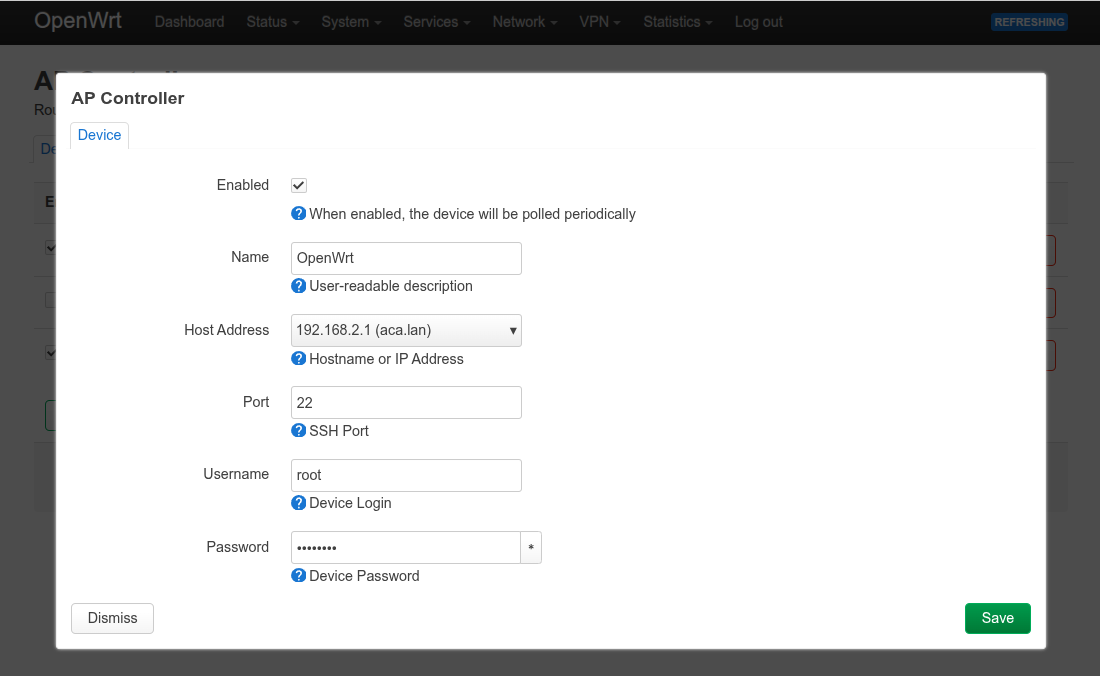
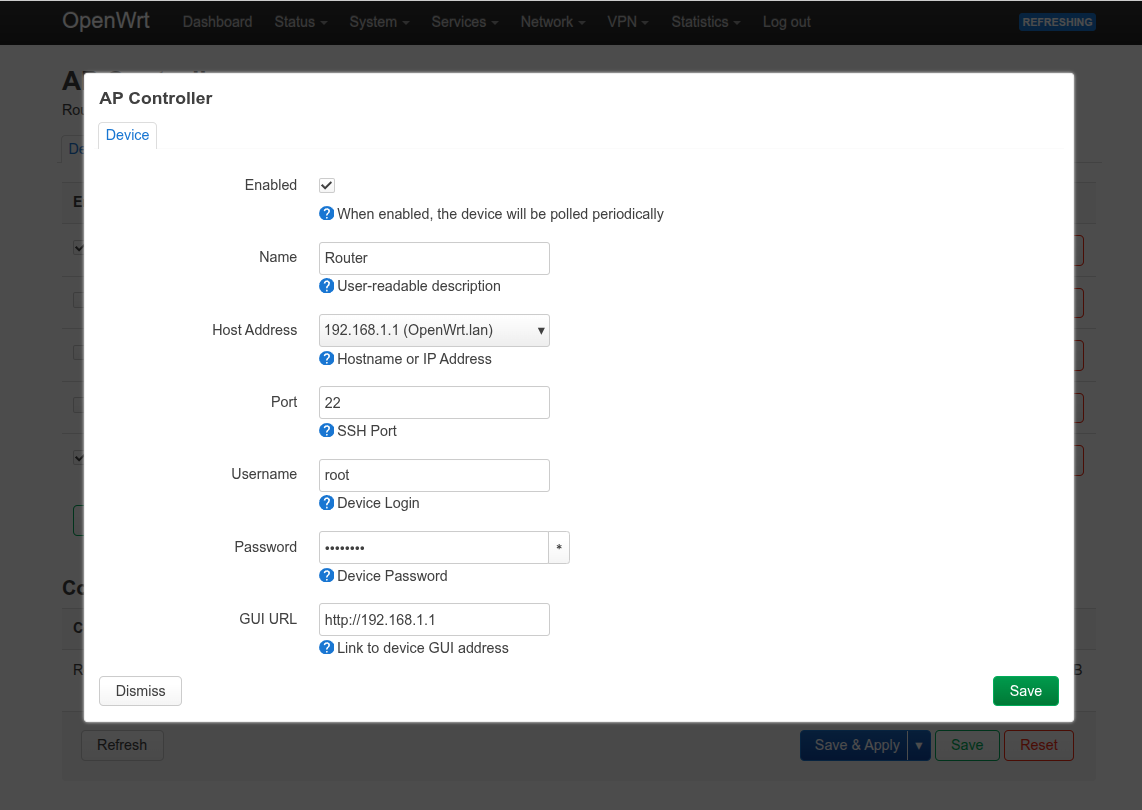
Design Improvements
- added a refresh button
- added a URL to the graphical interface
- made minor corrections

diff --git a/luci-app-apcontroller/htdocs/luci-static/resources/view/apcontroller/apcontroller.js b/luci-app-apcontroller/htdocs/luci-static/resources/view/apcontroller/apcontroller.js
@@ -159,29 +159,25 @@ return view.extend({
 				if (row['channels6g'])
 					row['channels6g'] = row['channels6g'].replaceAll(' ', ', ')
 
-				if (row['lastcontact']) {
-					row['.lastcontact'] = row['lastcontact'];
+				row['.lastcontact'] = row['lastcontact'];
+				if (row['.lastcontact'] > -1) {
+					const d = new Date(new Date().getTime() - row['.lastcontact'] * 1000);
 
-					if (row['.lastcontact'] > -1) {
-						const d = new Date(new Date().getTime() - row['.lastcontact'] * 1000);
+					row['lastcontact_ts'] = d.getTime() / 1000;
 
-						row['lastcontact_ts'] = d.getTime() / 1000;
+					let t = '' + d.getFullYear() + '-' + lz(d.getMonth() + 1) + '-' + lz(d.getDate()) + ' ' +
+						lz(d.getHours()) + ':' + lz(d.getMinutes()) + ':' + lz(d.getSeconds());
 
-						let t = '' + d.getFullYear() + '-' + lz(d.getMonth() + 1) + '-' + lz(d.getDate()) + ' ' +
-							lz(d.getHours()) + ':' + lz(d.getMinutes()) + ':' + lz(d.getSeconds());
+					if (row['.lastcontact'] > 86400)
+						t += ' (' + parseInt(row['.lastcontact']/86400) + _('days ago') + ')';
+					else if (row['.lastcontact'] > 3600)
+						t += ' (' + parseInt(row['.lastcontact']/3600) + _('h ago') + ')';
+					else if (row['.lastcontact'] > 60)
+						t += ' (' + parseInt(row['.lastcontact']/60) + _('m ago') + ')';
+					else
+						t += ' (' + row['.lastcontact'] + _('s ago') + ')';
 
-						if (row['.lastcontact'] > 86400)
-							t += ' (' + parseInt(row['.lastcontact']/86400) + _('days ago') + ')';
-						else if (row['.lastcontact'] > 3600)
-							t += ' (' + parseInt(row['.lastcontact']/3600) + _('h ago') + ')';
-						else if (row['.lastcontact'] > 60)
-							t += ' (' + parseInt(row['.lastcontact']/60) + _('m ago') + ')';
-						else
-							t += ' (' + row['.lastcontact'] + _('s ago') + ')';
-
-						row['lastcontact'] = t;
-					} else
-						row['lastcontact'] = '-';
+					row['lastcontact'] = t;
 				} else
 					row['lastcontact'] = '-';
 
@@ -289,9 +285,9 @@ return view.extend({
 					case 'connected':
 						return [ client.connected, '%t'.format(client.connected) || '-' ];
 					case 'rx':
-						return [ client.rx, '%.2mB'.format(client.rx) || '-' ];
+						return [ client.rx, '%1024.2mB'.format(client.rx) || '-' ];
 					case 'tx':
-						return [ client.tx, '%.2mB'.format(client.tx) || '-' ];
+						return [ client.tx, '%1024.2mB'.format(client.tx) || '-' ];
 					default:
 						return client[key] || '-';
 				}
@@ -995,5 +991,34 @@ return view.extend({
 		}, 63);
 
 		return m.render();
+	},
+
+	addFooter: function() {
+		var footer = view.prototype.addFooter.apply(this, arguments);
+
+		var actions = footer.querySelector('.cbi-page-actions');
+		if (!actions)
+			return footer;
+
+		var refreshBtn = E('button', {
+			'class': 'cbi-button',
+			'click': ui.createHandlerFn(this, async function() {
+				return fs.exec('/usr/bin/apcontroller')
+					.then(
+						ui.showModal(_('Refresh'), [
+							E('p', { 'class': 'spinning' }, [ _('Please wait...') ])
+						])
+					).then(
+						setTimeout(() => {
+							ui.hideModal();
+							window.location.reload();
+						}, 2000)
+					)
+			})
+		}, [ _('Refresh') ]);
+
+		actions.appendChild(refreshBtn);
+
+		return footer;
 	}
 });

diff --git a/README.pl.md b/README.pl.md
@@ -7,7 +7,7 @@ Aplikacja to lekki system zarządzania punktami dostępowymi (Access Points), zb
 <img src="https://raw.githubusercontent.com/obsy/apcontroller/refs/heads/main/img/tab-devices.png">
  
 Aplikacja umożliwia:
-- dodawanie i definiowania urządzeń (pracujących pod kontrolą OpenWrt) oraz wprowadzenie danych dostępnych (takich jak adres IP, port, login i hasło użytkownika)
+- dodawanie i definiowania urządzeń (pracujących pod kontrolą OpenWrt) oraz wprowadzenie danych dostępnych (takich jak adres IP, port, login i hasło użytkownika, adres URL do GUI)
 - włączenie/wyłącenie monitorowania urządzeń oraz prezentacja parametrów ich pracy
 - lista klientów bezprzewodowych połączonych do monitorowanych urządzeń z Wi-Fi
 - pobieranie logów z urządzenia, możliwość rebootu i pingowania urządzenia

diff --git a/README.md b/README.md
@@ -7,7 +7,7 @@ The application is a lightweight Access Point (AP) management system, developed 
 <img src="https://raw.githubusercontent.com/obsy/apcontroller/refs/heads/main/img/tab-devices.png">
  
 The application provides the following features:
-- adding and defining devices (running on OpenWrt) and storing access credentials (such as IP address, port, username, and password)
+- adding and defining devices (running on OpenWrt) and storing access credentials (such as IP address, port, username, and password, URL to the GUI)
 - enabling/disabling device monitoring and presenting device operation parameters
 - list of wireless clients connected to monitored devices with Wi-Fi
 - downloading logs from the device, the ability to reboot and ping the device
